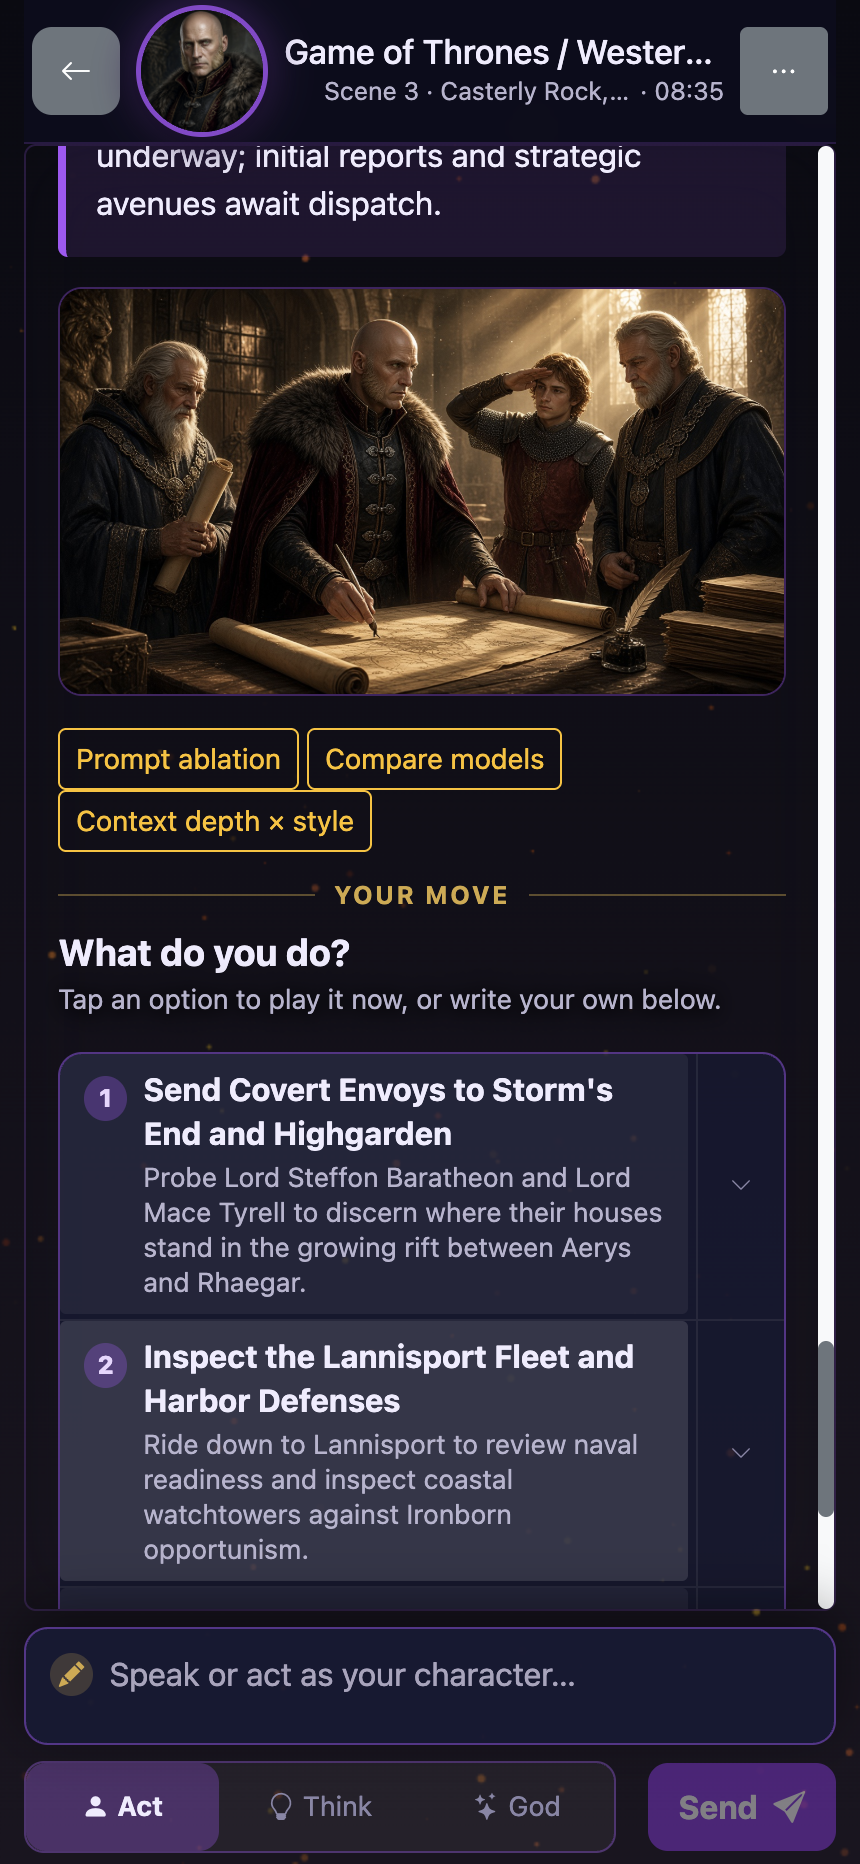
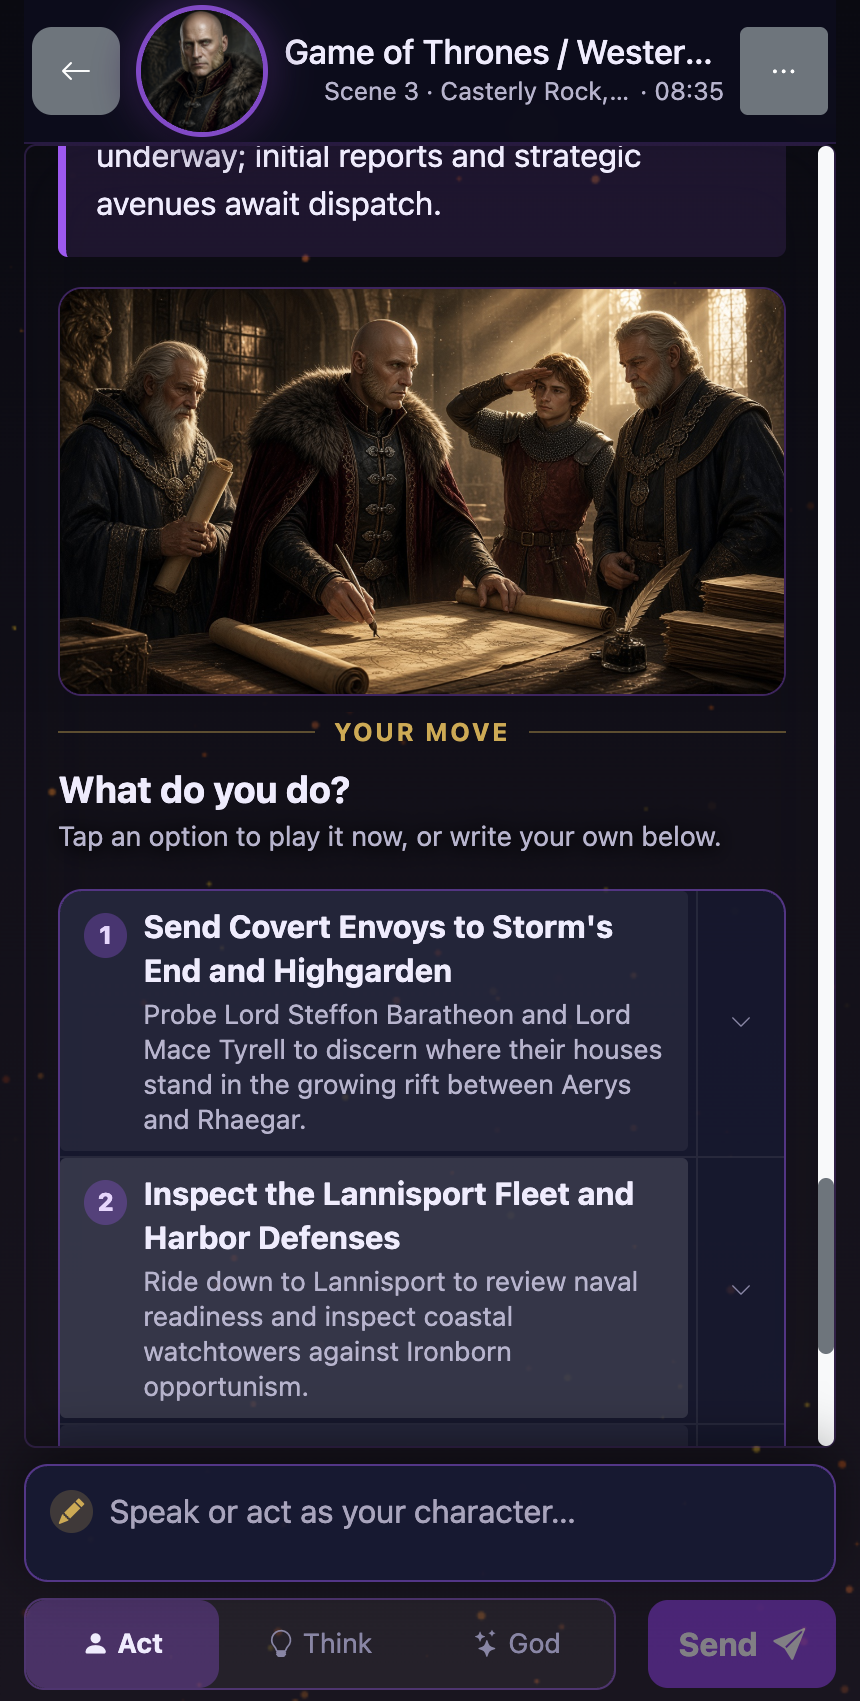
claude/claude-sonnet-5-5: docs(how-to-play): crop developer buttons from screenshot and clarify provenance [claude][sonnet-5.5]
Removes the developer-only button row from the scene-illustration screenshot, separates wizard and gameplay capture provenance, says "every story turn", trims duplicate sentences, and brings the page back to 250 lines.

diff --git a/queries/how-to-play-worldai.md b/queries/how-to-play-worldai.md
@@ -30,7 +30,7 @@ Your first 30 minutes with the game, step by step.
 
 **The short version:** sign in, click **Play a campaign**, choose the custom path, describe the world and character you want, add an optional portrait, and **Enter the World**. You do not need to know the rules before playing. **Dragon Knight Campaign** is the ready-made quick start if you want to skip designing a world.
 
-The Dragon Knight screenshots are real captures from a playthrough; the custom-world screenshot shows an example setup. The mobile screenshots marked *current* show the present interface. The others show an earlier one: use the written steps for the current labels and controls. See [Screenshot provenance](#screenshot-provenance) for dates and viewports.
+The Dragon Knight screenshots are real captures from a playthrough and show an earlier interface; the custom-world screenshot shows an example setup. Screenshots marked *current* show the present interface. Use the written steps for the current labels and controls. See [Screenshot provenance](#screenshot-provenance) for dates and viewports.
 
 ## Before you start
 
@@ -72,13 +72,9 @@ For example: *A young courier in a floating city discovers that the royal mail c
 
 ![Custom campaign fields and expanded description prompt, shown in an earlier interface](../assets/fresh_screenshots/02_wizard_step1_description_prompt.png)
 
-**Current mobile view:** keep **Play a campaign** selected, then fill in the world, era, and character.
+![Current mobile wizard: keep Play a campaign selected, then fill in Setting / World, Timeline / Era, and the character](images/how-to-play-worldai/step3-custom-wizard-setting-mobile.png)
 
-![Current mobile wizard: Play a campaign selected, with Setting / World and Timeline / Era filled in](images/how-to-play-worldai/step3-custom-wizard-setting-mobile.png)
-
-Further down, add the plot or what-if direction and a campaign title, then press **Next**.
-
-![Current mobile wizard: protagonist, plot / what-if, and campaign title filled in, with Next at the bottom](images/how-to-play-worldai/step3-custom-wizard-plot-mobile.png)
+![Current mobile wizard, further down: protagonist, plot / what-if, and campaign title filled in, with Next at the bottom](images/how-to-play-worldai/step3-custom-wizard-plot-mobile.png)
 
 **Want a quick start instead?** Choose **Dragon Knight Campaign**. It fills in the world and Ser Arion's character for you. The screenshots below show that optional path.
 
@@ -115,17 +111,15 @@ As on every turn, you can also ignore all three and type your own action instead
 
 On a custom campaign with no character, the GM instead offers three ways to build one: **AI Generated**, **Standard D&D** (step-by-step), or **Custom Class**.
 
-For the Dragon Knight quick start, accept the pre-filled character with **Finish Character Creation and Start Game**, or edit it first. In a custom campaign, review the character the GM creates for your premise and ask for changes before continuing.
+For the Dragon Knight quick start, accept the pre-filled character with **Finish Character Creation and Start Game**, or edit it first.
 
 In a custom campaign the GM opens with a **Character Creation Review** for the character built from your description. Choose **Finish Character Creation and Start Game** to accept it, or **Edit Character** to change it first.
 
-![Current mobile Character Creation Review for a custom campaign: the review, the choice that was made, and the session summary that follows](images/how-to-play-worldai/step4-character-creation-review-mobile.png)
+![Current mobile Character Creation Review for a custom campaign: the review title, the choice already made, and the session summary that follows](images/how-to-play-worldai/step4-character-creation-review-mobile.png)
 
 ![Character Creation Review — the GM presents Ser Arion's build (STR 16, CON 14, CHA 16, Lvl 1 Paladin) before the narrative begins. The three choices are Finish Character Creation and Start Game, Edit Character, and Custom Class, followed by the earlier interface's Custom Action row and a final "start the adventure" confirmation](images/how-to-play-worldai/step4-character-creation-review-desktop.png)
 
 ## Step 5 — Read the opening scene
-
-Every turn is a scene to read first. Take in the narration, then decide what your character does next.
 
 The GM narrates the opening. For Dragon Knight that's **The King's Ribbon, Winter-Mourn Province** — a road on horseback through a frozen province. Under the story title, the structured HUD sub-line displays `SCENE 1 · THE KING'S RIBBON · 09:00`, anchoring the scene number, the location, and the in-game world time.
 
@@ -145,7 +139,7 @@ It establishes:
 
 ### Read the story, then decide
 
-In any campaign, the narrator describes what is happening. A summary above it tracks your location, level, HP, XP, and gold, with **Equipment**, **Stats**, and **Spells** buttons beneath it.
+Every story turn is a scene to read first. The narrator describes what is happening, and then you decide what your character does next. A summary above it tracks your location, level, HP, XP, and gold, with **Equipment**, **Stats**, and **Spells** buttons beneath it.
 
 ![Current mobile story view: session summary, resources, a reward, and the narrator's scene](images/how-to-play-worldai/step5-narrative-hud-mobile.png)
 
@@ -251,6 +245,6 @@ The Dragon Knight playthrough screenshots in `images/how-to-play-worldai/` were 
 
 The session is real. Every line of narration in the pictures was written by the AI Game Master during play — nothing is mocked up, and the "Checking the rulebook..." overlay in the last screenshot is the genuine waiting state while the GM thinks.
 
-The custom-world setup image reused from the wiki's existing screenshot assets shows an earlier interface. Its capture date is not established here; it illustrates the fields, not current portrait behavior. No new screenshot or native-app proof is claimed.
+The custom-world setup image reused from the wiki's existing screenshot assets shows an earlier interface. Its capture date is not established here; it illustrates the fields, not current portrait behavior.
 
-The seven mobile screenshots marked *current* were captured **2026-11-02** at 430×932 (shown at 2× resolution) from a custom Game of Thrones campaign; the wizard fields were filled in but not submitted. The portrait capture is from an iPhone TestFlight session of the same campaign.
+The seven mobile screenshots marked *current* were captured **2026-11-02** in a 430×932 browser viewport (shown at 2× resolution) from a custom Game of Thrones campaign. The two wizard screenshots show fields that were filled in but not submitted. The Character Creation Review, story, and choices screenshots show a played campaign at Scene 3. In the scene-illustration screenshot an unrelated row of developer buttons is cropped out, and the Act / Think / God screenshot stacks three crops of the message box, one per mode. The portrait screenshot is from an iPhone TestFlight session of the same campaign, captured 2026-10-31.
